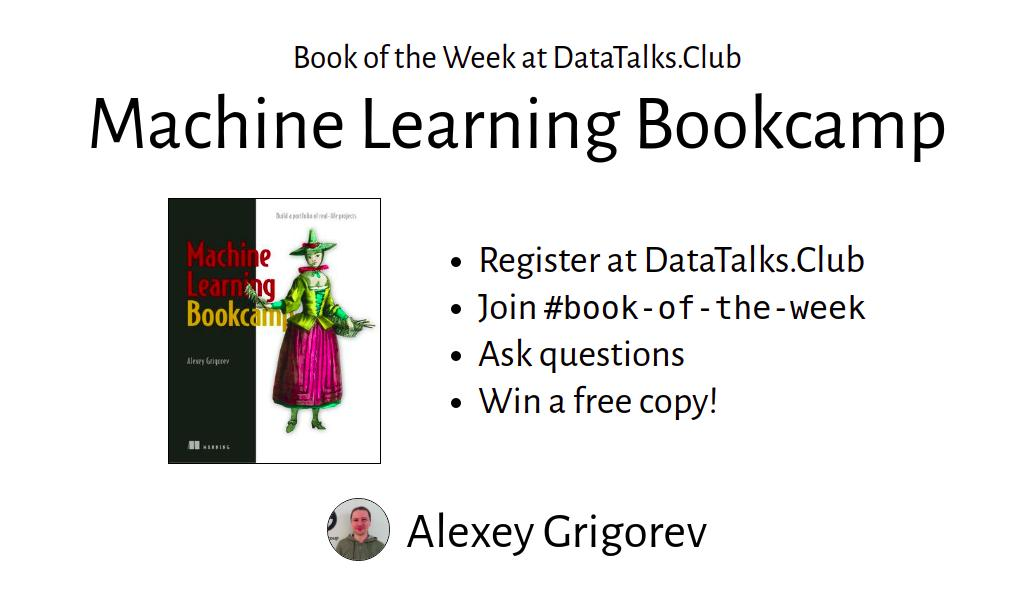
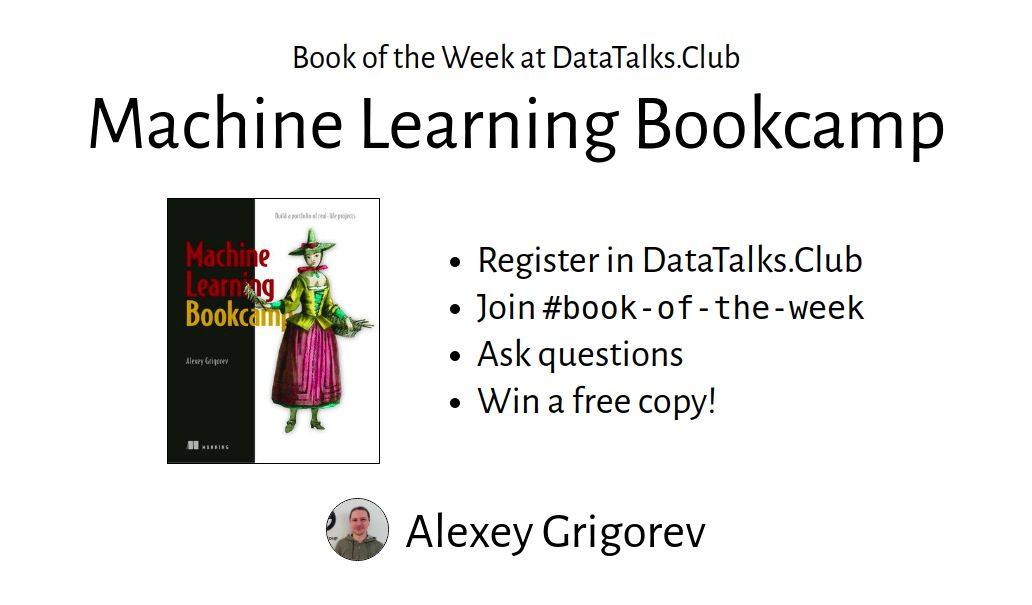
typo

diff --git a/previews/template_book.html b/previews/template_book.html
@@ -27,7 +27,7 @@
         </div>
         <div class="book-of-the-week-rules">
           <ul>
-            <li>Register at DataTalks.Club</li>
+            <li>Register in DataTalks.Club</li>
             <li>Join <code>#book-of-the-week</code></li>
             <li>Ask questions</li>
             <li>Win a free copy!</li>
@@ -38,7 +38,7 @@
         <div class="author-block" id="author">
           <div><img id="image" src="../images/authors/alexeygrigorev.jpg"></div>
           <div>
-            <h3 id="author-name" class="author-name">AUTHOR_PLACEHOLDER</h3>
+            <h3 id="author-name" class="author-name">Alexey Grigorev</h3>
           </div>
         </div>
       </div>
